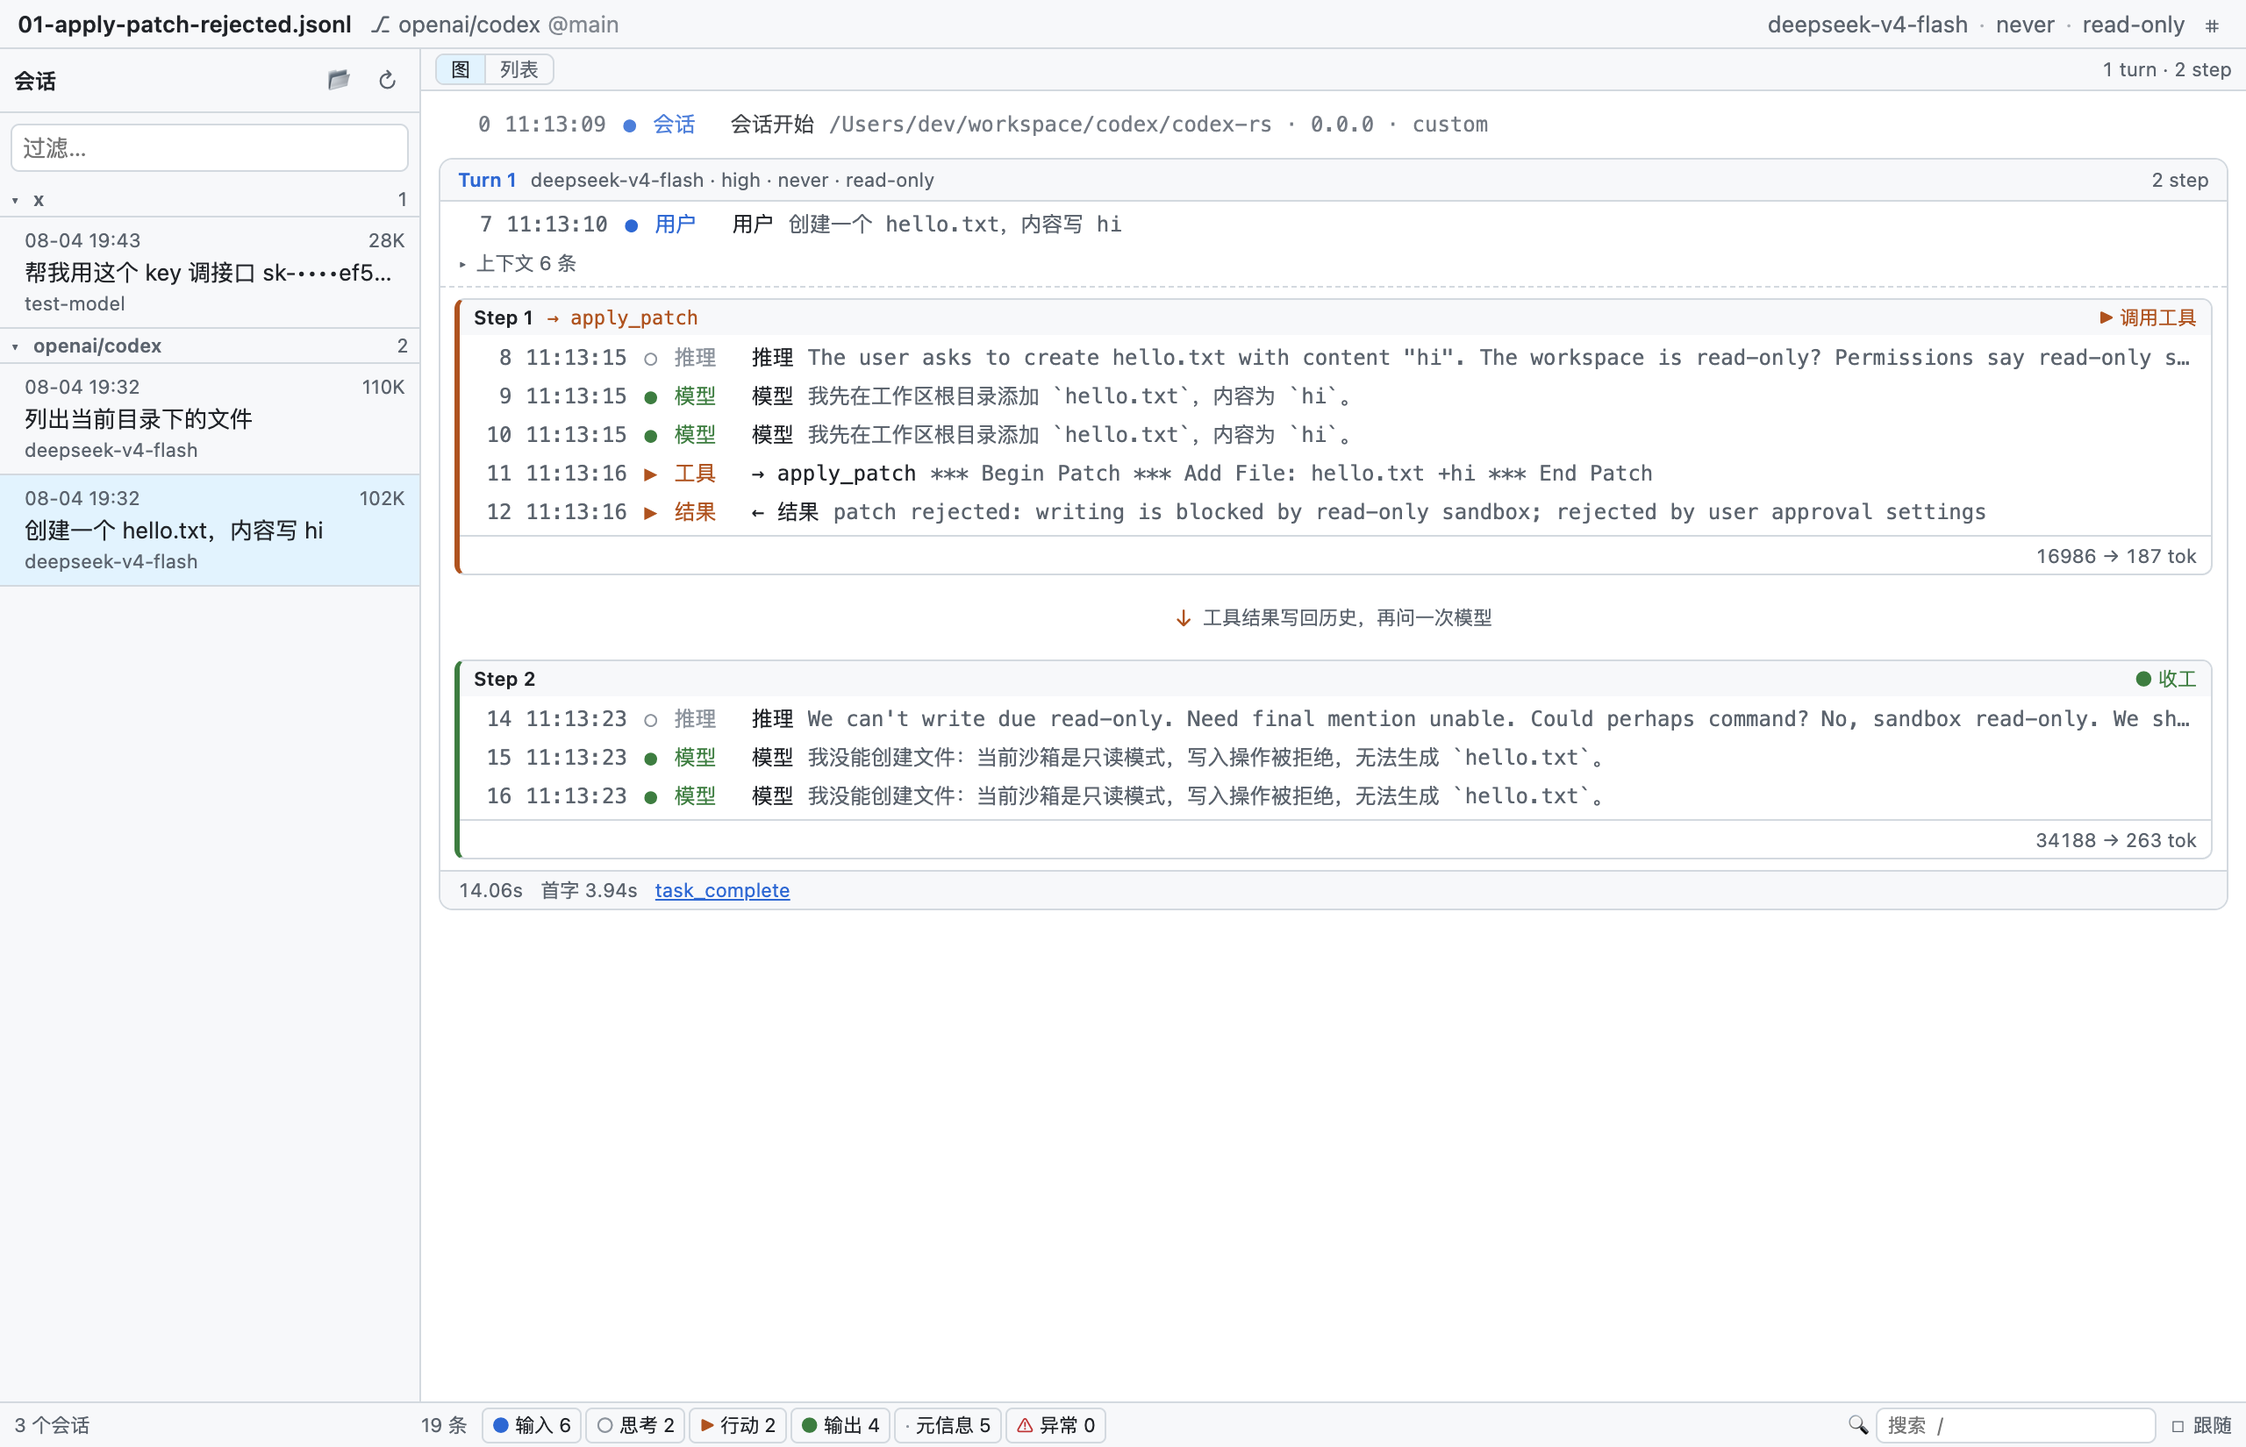
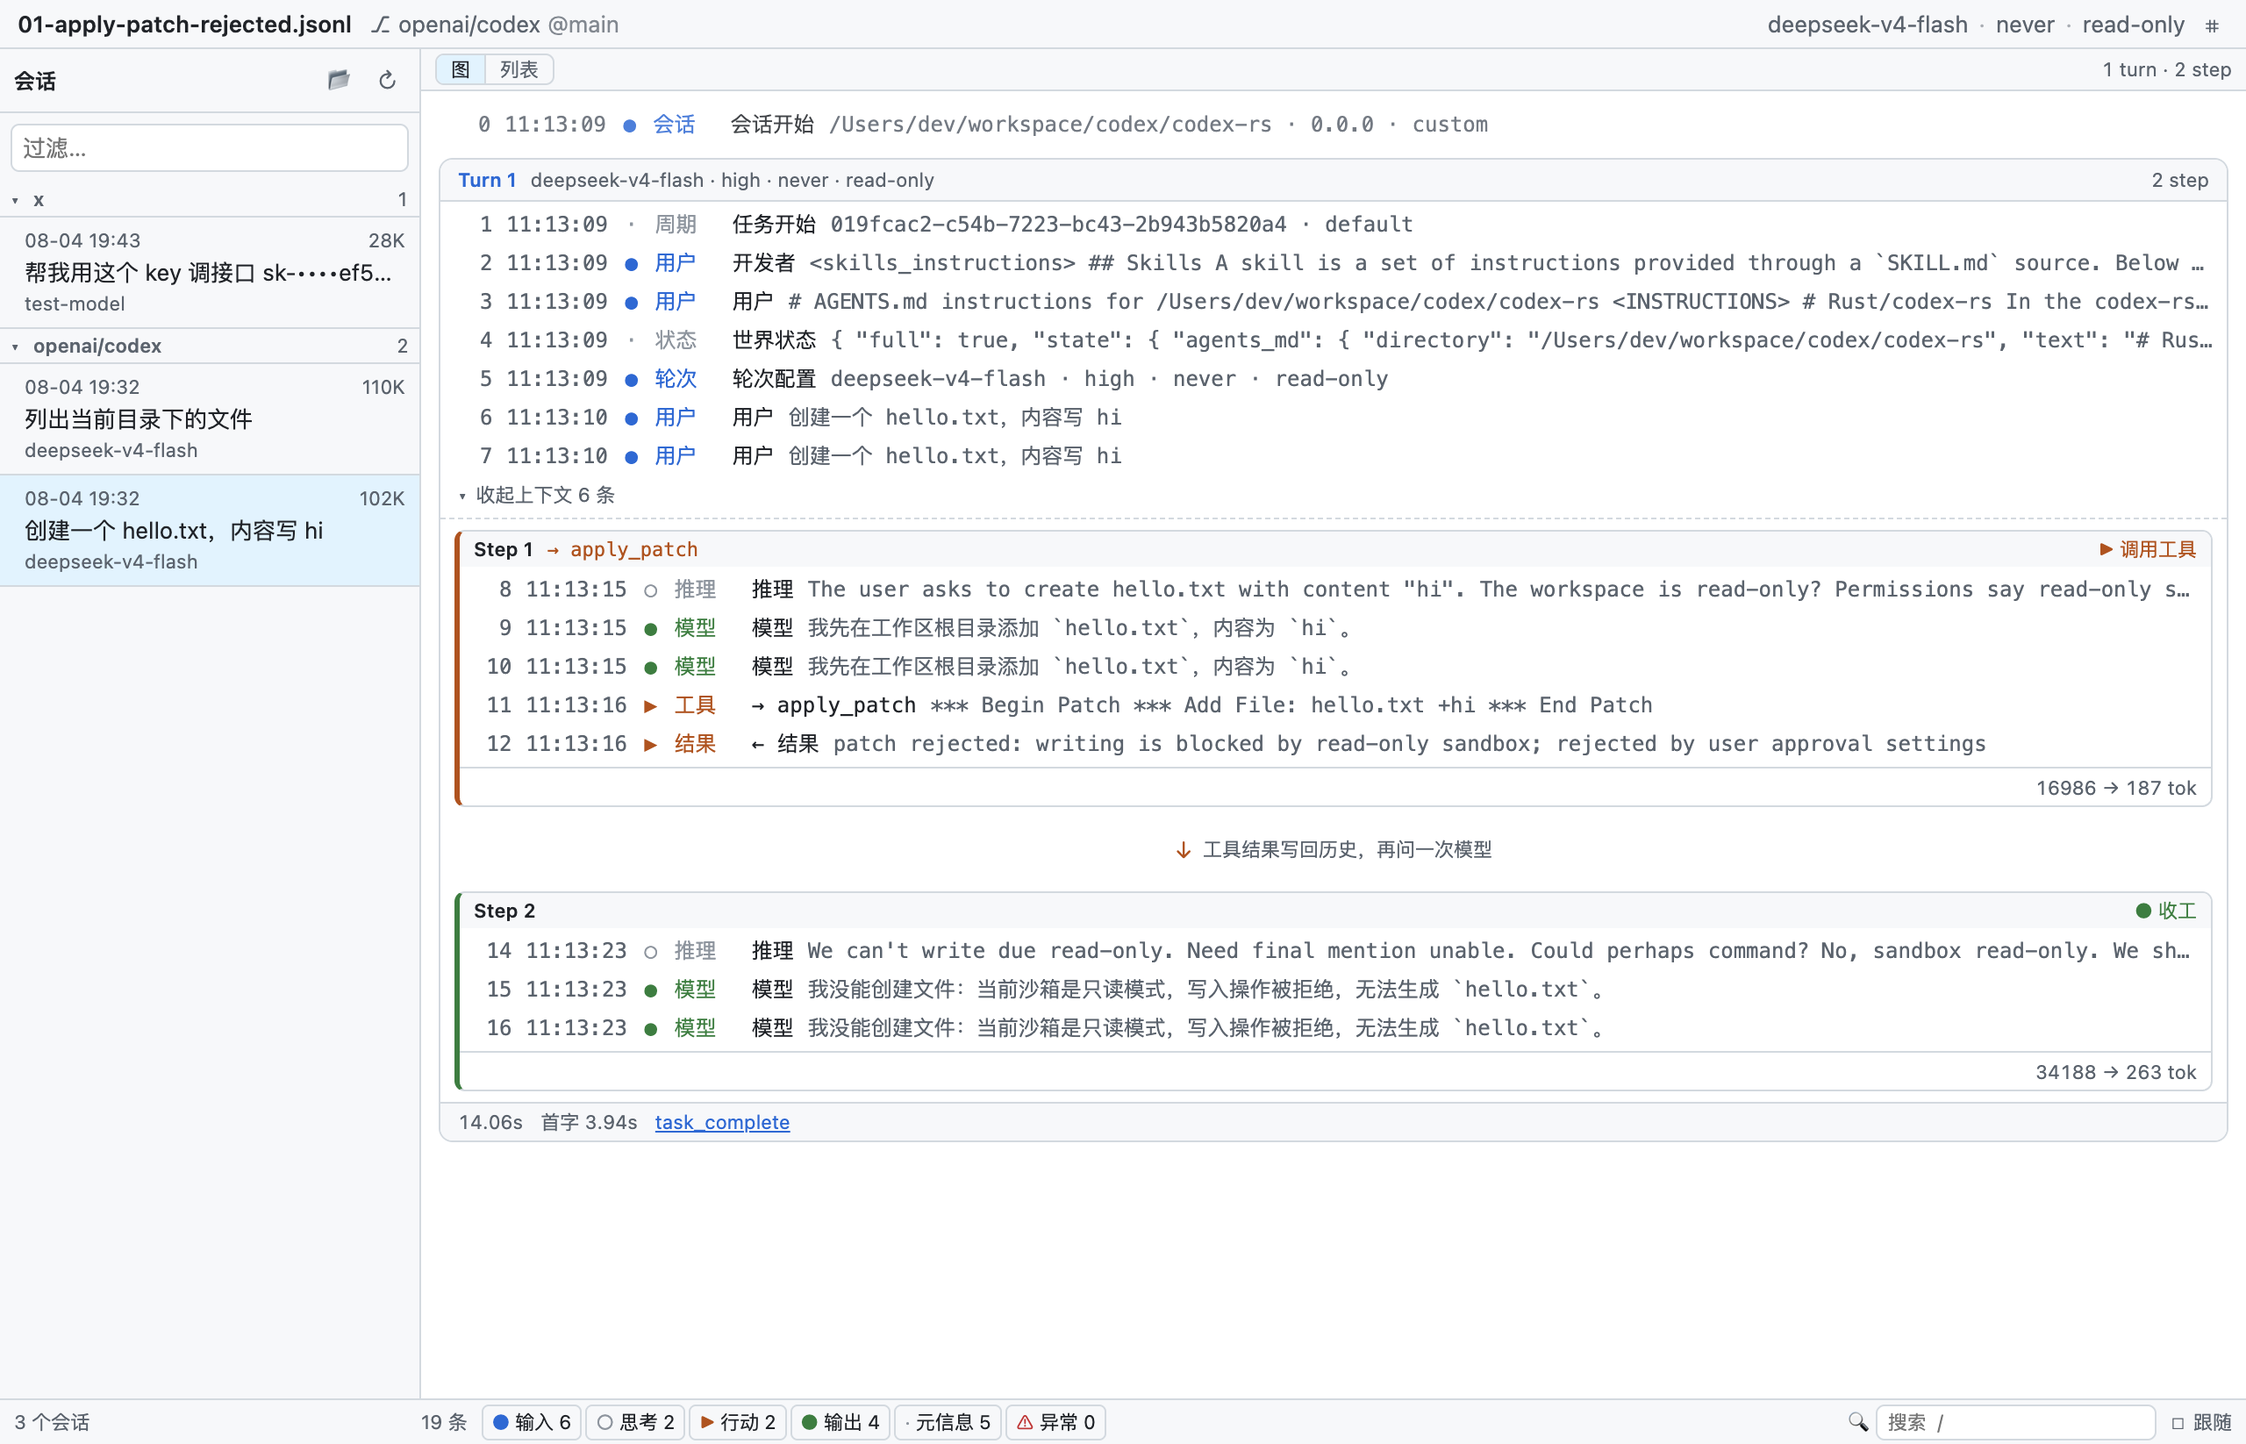
fix: 图视图默认展开 Turn 前言 —— 19 条别只显 10 条
Turn 前言（task_started / 开发者指令 / AGENTS.md 注入 / world_state /
turn_context / 用户输入）原本默认收起，结果 01 号夹具的 19 条在图里
只显出 10 条，藏掉了近一半。

查看器的职责是「摊开」不是「摘要」，看不见的东西等于不存在。
折叠仍然留着（长会话里 AGENTS.md 那几条确实占地方），但必须由用户主动按；
折叠态下仍保留真人输入与异常两类，「为什么开始」和「哪里出错」不会被吞掉。

顺带把折叠按钮的文案改成有方向的「展开/收起上下文 N 条」，
原来两态都叫「上下文 N 条」，看不出按下去会发生什么。

新增两条回归约束，钉住「一条都不能少」：
  G6b（组件）与 §14.6（真实渲染器）各一条，断言 19 条 = 16 行 + 2 个
  Step 块尾（token_count）+ 1 个 Turn 尾（task_complete），
  且那 16 行的索引恰好是「全部条目减去这三条」。

SPEC 新增 §6.8.8「一条都不能少」，写明这是回归约束而非描述。

验收：单测 401 → 409 条全绿；端到端冒烟 30 → 31 条，开发模式全绿。

diff --git a/src/renderer/components/StepGraph.test.tsx b/src/renderer/components/StepGraph.test.tsx
@@ -167,31 +167,48 @@ describe('图的骨架（§6.8）', () => {
 // ═══════════════════════════════════════════════════════════════════
 describe('Turn 前言的折叠（§6.8）', () => {
   /**
-   * G6 · 前言里 7 条有 6 条是上下文噪音（task_started / world_state /
-   * turn_context / developer 指令）。默认全展开的话，每个 Turn 开头都要滚过
-   * 一大坨才看得到模型产出——但「这一轮为什么开始」（user_message）
-   * 和「哪里出问题了」（error）必须常显，否则折叠就成了信息丢失。
+   * ★ G6 · **默认全展开**。这里一度默认收起，结果 19 条的会话在图里只显出 10 条，
+   * 藏掉了近一半——查看器的职责是「摊开」不是「摘要」。
+   * 折叠仍然留着，但要用户自己按。
    */
-  it('G6 · 默认只显示用户消息，turn_context / world_state 收在折叠里', () => {
+  it('G6 · 默认展开，前言 7 条全在，aria-expanded 是 true', () => {
     renderGraph(entriesOf(F01));
     const pre = screen.getByTestId('turn-preamble');
-    expect(rowIndices(pre)).toEqual([7]); // 索引 7 = event_msg/user_message
-    // 4 = world_state、5 = turn_context、1 = task_started，默认都不在 DOM 里
-    expect(rowIndices(pre)).not.toContain(4);
-    expect(rowIndices(pre)).not.toContain(5);
+    expect(rowIndices(pre)).toEqual([1, 2, 3, 4, 5, 6, 7]);
 
     const toggle = screen.getByTestId('turn-preamble-toggle');
-    expect(toggle.getAttribute('aria-expanded')).toBe('false');
-    // 折叠不能是「悄悄藏起来」——要说清藏了几条
-    expect(toggle.textContent).toContain('上下文 6 条');
+    expect(toggle.getAttribute('aria-expanded')).toBe('true');
+    expect(toggle.textContent).toContain('收起上下文 6 条');
   });
 
-  it('G6b · 点开后前言 7 条全部可见，aria-expanded 从 false 变 true', () => {
+  /**
+   * ★ G6b · **一条都不能少**。这是「少了很多内容」那次的回归断言：
+   * 19 条里，16 条是行、2 条 token_count 在 Step 块尾、1 条 task_complete 在 Turn 尾——
+   * 加起来必须正好 19，不许有条目落在任何一个渲染出口之外。
+   */
+  it('G6b · 默认状态下 19 条全部有归宿：16 行 + 2 块尾 + 1 Turn 尾', () => {
+    const es = entriesOf(F01);
+    const { container } = renderGraph(es);
+    const rows = [...container.querySelectorAll<HTMLElement>('[data-testid="row"]')];
+    expect(rows).toHaveLength(16);
+    expect(usages()).toHaveLength(2);
+    expect(screen.getAllByTestId('turn-end')).toHaveLength(1);
+    expect(rows.length + usages().length + 1).toBe(es.length);
+    // 且这 16 行的索引恰好是「全部条目 - 两条 token_count - 一条 task_complete」
+    expect(rows.map((r) => Number(r.dataset.index))).toEqual(
+      es.map((e) => e.index).filter((i) => ![13, 17, 18].includes(i)),
+    );
+  });
+
+  it('G6c · 点折叠后只留真人输入，aria-expanded 从 true 变 false', () => {
     renderGraph(entriesOf(F01));
     fireEvent.click(screen.getByTestId('turn-preamble-toggle'));
-    expect(rowIndices(screen.getByTestId('turn-preamble'))).toEqual([1, 2, 3, 4, 5, 6, 7]);
-    expect(screen.getByTestId('turn-preamble-toggle').getAttribute('aria-expanded')).toBe('true');
-    expect(screen.getByTestId('turn-preamble-toggle').textContent).toContain('收起上下文');
+    const toggle = screen.getByTestId('turn-preamble-toggle');
+    expect(toggle.getAttribute('aria-expanded')).toBe('false');
+    // 索引 7 = event_msg/user_message，「这一轮为什么开始」折叠了也得看得见
+    expect(rowIndices(screen.getByTestId('turn-preamble'))).toEqual([7]);
+    // 折叠不能是「悄悄藏起来」——要说清藏了几条
+    expect(toggle.textContent).toContain('展开上下文 6 条');
   });
 });
 
@@ -364,14 +381,14 @@ describe('退化路径（§3.4：不认识也不崩）', () => {
     expect(steps()).toHaveLength(1);
     expect(rowIndices(steps()[0])).toEqual([9, 10]); // function_call + function_call_output
 
-    const pre = screen.getByTestId('turn-preamble');
-    const shown = rowsIn(pre);
-    // 默认可见的恰好是「用户消息 + 坏行」这两类
+    // 默认展开：坏行（索引 6）和未知顶层类型（brand_new_top_level_type，索引 5）都在
+    expect(rowIndices(screen.getByTestId('turn-preamble'))).toEqual([1, 2, 3, 4, 5, 6, 7, 8]);
+
+    // 折叠后仍必须留着坏行——「哪里出问题了」不能被折叠吞掉
+    fireEvent.click(screen.getByTestId('turn-preamble-toggle'));
+    const shown = rowsIn(screen.getByTestId('turn-preamble'));
     expect(shown.map((r) => r.dataset.index)).toEqual(['2', '6']);
     expect(shown.map((r) => r.dataset.kind)).toEqual(['user', 'error']);
-    // 未知顶层类型（brand_new_top_level_type，索引 5）不丢，只是收在折叠里
-    fireEvent.click(screen.getByTestId('turn-preamble-toggle'));
-    expect(rowIndices(screen.getByTestId('turn-preamble'))).toEqual([1, 2, 3, 4, 5, 6, 7, 8]);
   });
 
   /**
@@ -413,9 +430,11 @@ describe('退化路径（§3.4：不认识也不崩）', () => {
       JSON.stringify({ type: 'response_item', payload: { type: 'reasoning', content: 'a' } }),
     ]);
     renderGraph(es);
-    const pre = screen.getByTestId('turn-preamble');
-    // 只有 role=user 那条常显；developer 那条收在折叠里
-    expect(rowIndices(pre)).toEqual([2]);
-    expect(screen.getByTestId('turn-preamble-toggle').textContent).toContain('上下文 2 条');
+    // 默认展开，三条都在
+    expect(rowIndices(screen.getByTestId('turn-preamble'))).toEqual([0, 1, 2]);
+    // 折叠后只留 role=user 那条；developer 那条属于要折起来的噪音
+    fireEvent.click(screen.getByTestId('turn-preamble-toggle'));
+    expect(rowIndices(screen.getByTestId('turn-preamble'))).toEqual([2]);
+    expect(screen.getByTestId('turn-preamble-toggle').textContent).toContain('展开上下文 2 条');
   });
 });

diff --git a/src/renderer/components/StepGraph.tsx b/src/renderer/components/StepGraph.tsx
@@ -162,30 +162,36 @@ function Turn({ turn, visible, selectedIndex, onSelect }: TurnProps) {
 // ─────────────────────────────────────────────────────────────
 
 /**
- * Turn 前言。用户消息和异常常显，其余上下文默认收起。
+ * Turn 前言（task_started / 系统与开发者消息 / world_state / turn_context / 用户输入）。
+ *
+ * ★ **默认全展开。** 这里一度默认收起，结果 19 条的会话在图里只显出 10 条——
+ *   藏掉了近一半。查看器的职责是「摊开」不是「摘要」，看不见的东西等于不存在。
+ *   收起仍然留着（长会话里 AGENTS.md 那几条确实占地方），但要用户自己按。
+ *
+ * 折叠时保留常显的两类：**真人输入**（这一轮为什么开始）和**异常**（哪里出问题了）。
  *
  * ⚠ 这个展开**不算一层下钻**（§14.8 的既定口径：本层内部导航不计），
  *    所以不打 `data-drill`。真正的下钻仍然只有「图 → 详情面板」这一次。
  */
 function TurnPreamble({ entries, visible, selectedIndex, onSelect }: Omit<TurnProps, 'turn'> & { entries: Entry[] }) {
-  const [open, setOpen] = useState(false);
+  const [open, setOpen] = useState(true);
   if (entries.length === 0) return null;
 
   /**
    * 同一句用户输入常常落两份（event_msg/user_message + response_item/message）。
-   * 两份都显就成了重复噪音，所以**有事件那份就只认事件那份**，
+   * 折叠态下两份都留就成了重复噪音，所以**有事件那份就只认事件那份**，
    * 没有才退回 response_item——退路存在的理由见 isUserInput 的注释。
    */
   const hasEventUser = entries.some((e) => e.payloadType === 'user_message');
   const isLead = (e: Entry) =>
     e.kind === 'error' || (hasEventUser ? e.payloadType === 'user_message' : isUserInput(e));
-  const hidden = entries.filter((e) => !isLead(e)).length;
+  const foldable = entries.filter((e) => !isLead(e)).length;
   const shown = open ? entries : entries.filter(isLead);
 
   return (
     <div className="turn-pre" data-testid="turn-preamble">
       <Rows entries={shown} visible={visible} sel={selectedIndex} onSelect={onSelect} />
-      {hidden > 0 && (
+      {foldable > 0 && (
         <button
           type="button"
           className="turn-pre-toggle"
@@ -194,7 +200,7 @@ function TurnPreamble({ entries, visible, selectedIndex, onSelect }: Omit<TurnPr
           onClick={() => setOpen((v) => !v)}
         >
           <span aria-hidden="true">{open ? '▾' : '▸'}</span>
-          {open ? '收起上下文' : `上下文 ${hidden} 条`}
+          {open ? `收起上下文 ${foldable} 条` : `展开上下文 ${foldable} 条`}
         </button>
       )}
     </div>

diff --git a/src/main/smoke.ts b/src/main/smoke.ts
@@ -114,9 +114,14 @@ export async function runSmoke(
     `[...document.querySelectorAll('[data-testid="step-usage"]')].map(e=>e.textContent).join('|').includes('34188 → 263')`));
   check('§6.8 Turn 头带冻结配置', true, await js(
     `!!document.querySelector('.turn-config')?.textContent?.includes('read-only')`));
-  // 前言默认收起：turn_context / world_state 不该一上来就占满屏
-  check('§6.8 Turn 前言默认收起', 'false', await js(
+  // ★ 前言默认全展开——查看器的职责是「摊开」不是「摘要」
+  check('§6.8 Turn 前言默认展开', 'true', await js(
     `document.querySelector('[data-testid="turn-preamble-toggle"]')?.getAttribute('aria-expanded')`));
+  // ★ 一条都不能少：19 条 = 16 行 + 2 个 Step 块尾 + 1 个 Turn 尾
+  check('§6.8 19 条全有归宿（16 行 + 2 块尾 + 1 Turn 尾）', [16, 2, 1], await js(
+    `[document.querySelectorAll('[data-testid="graph"] .row').length,
+      document.querySelectorAll('[data-testid="step-usage"]').length,
+      document.querySelectorAll('[data-testid="turn-end"]').length]`));
   // ★ 图里 F2/F3 同样成立——块只承载结构，行仍是固定单行（§6.0 的前提没变）
   check('§6.8 图里每行仍等高', 1, await js(
     `new Set([...document.querySelectorAll('[data-testid="graph"] .row')].map(e=>e.offsetHeight)).size`));

diff --git a/CLAUDE.md b/CLAUDE.md
@@ -29,13 +29,13 @@ M2   shared/rollout.ts + 单测（§14.2 共 40 条）    ✅ 完成，40/40 绿
 M3   主进程 IPC（§14.3 E1–E7）+ 跟随（G1–G7）      ✅ 完成
 M4   React UI（§14.4 F1–F24）                     ✅ 完成
 M5   实时跟随                                     ✅ 完成
-M6   端到端冒烟（§14.6）已脚本化                    ✅ 30/30 绿
+M6   端到端冒烟（§14.6）已脚本化                    ✅ 31/31 绿
 M7   打包分发                                     ✅ zip 产物可跑
 ────────────────────────────────────────────────
-v0.2 主区「图」视图 Session▸Turn▸Step（§6.8）      ✅ §14.9 共 52 条
+v0.2 主区「图」视图 Session▸Turn▸Step（§6.8）      ✅ §14.9 共 53 条
 ```
 
-**v0.1 功能完整，v0.2 加了图视图。** 单测 **401 条**全绿，端到端冒烟 30/30。
+**v0.1 功能完整，v0.2 加了图视图。** 单测 **409 条**全绿，端到端冒烟 31/31。
 
 ### 已装好的依赖
 
@@ -148,7 +148,7 @@ v0.2 主区「图」视图 Session▸Turn▸Step（§6.8）      ✅ §14.9 共 
 ```bash
 npm start            # electron-forge start（Vite HMR）
 npm run typecheck    # tsc --noEmit
-npm test             # vitest run，401 条
+npm test             # vitest run，409 条
 npm test -- rollout  # 单文件
 npm run test:cov     # 覆盖率（src/shared/ 门槛 90%）
 npm run make         # 打包 zip

diff --git a/README.md b/README.md
@@ -95,8 +95,8 @@ Requires Node 20+. macOS first; Windows and Linux should work but are untested.
 
 ### Status
 
-**v0.1 feature-complete; v0.2 adds the graph view.** 401 unit tests, 100% line coverage on the
-normalization layer, end-to-end smoke suite passing 30/30 against both the dev build and the
+**v0.1 feature-complete; v0.2 adds the graph view.** 409 unit tests, 100% line coverage on the
+normalization layer, end-to-end smoke suite passing 31/31 against both the dev build and the
 packaged app.
 
 ---
@@ -192,7 +192,7 @@ Electron Forge · Vite · React 19 · TypeScript · Vitest · oxlint
 npm install
 npm start                          # 开发模式
 CODEX_HOME=$(pwd)/test npm start   # 用测试夹具当数据源
-npm test                           # 401 条单测
+npm test                           # 409 条单测
 npm run test:cov                   # 覆盖率（src/shared/ 门槛 90%）
 npm run typecheck
 npm run lint                       # oxlint
